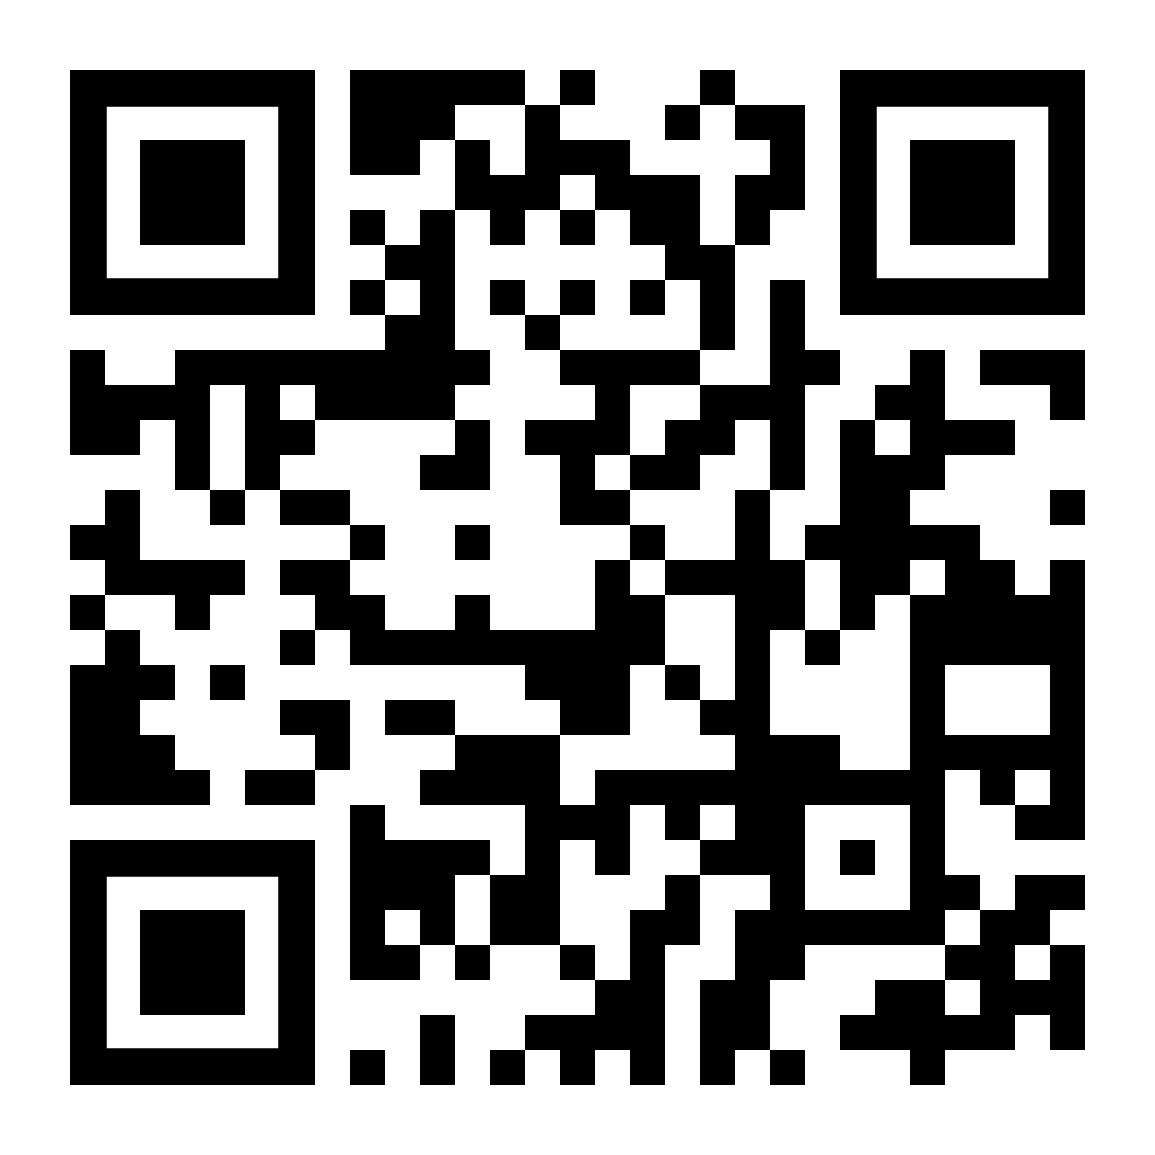
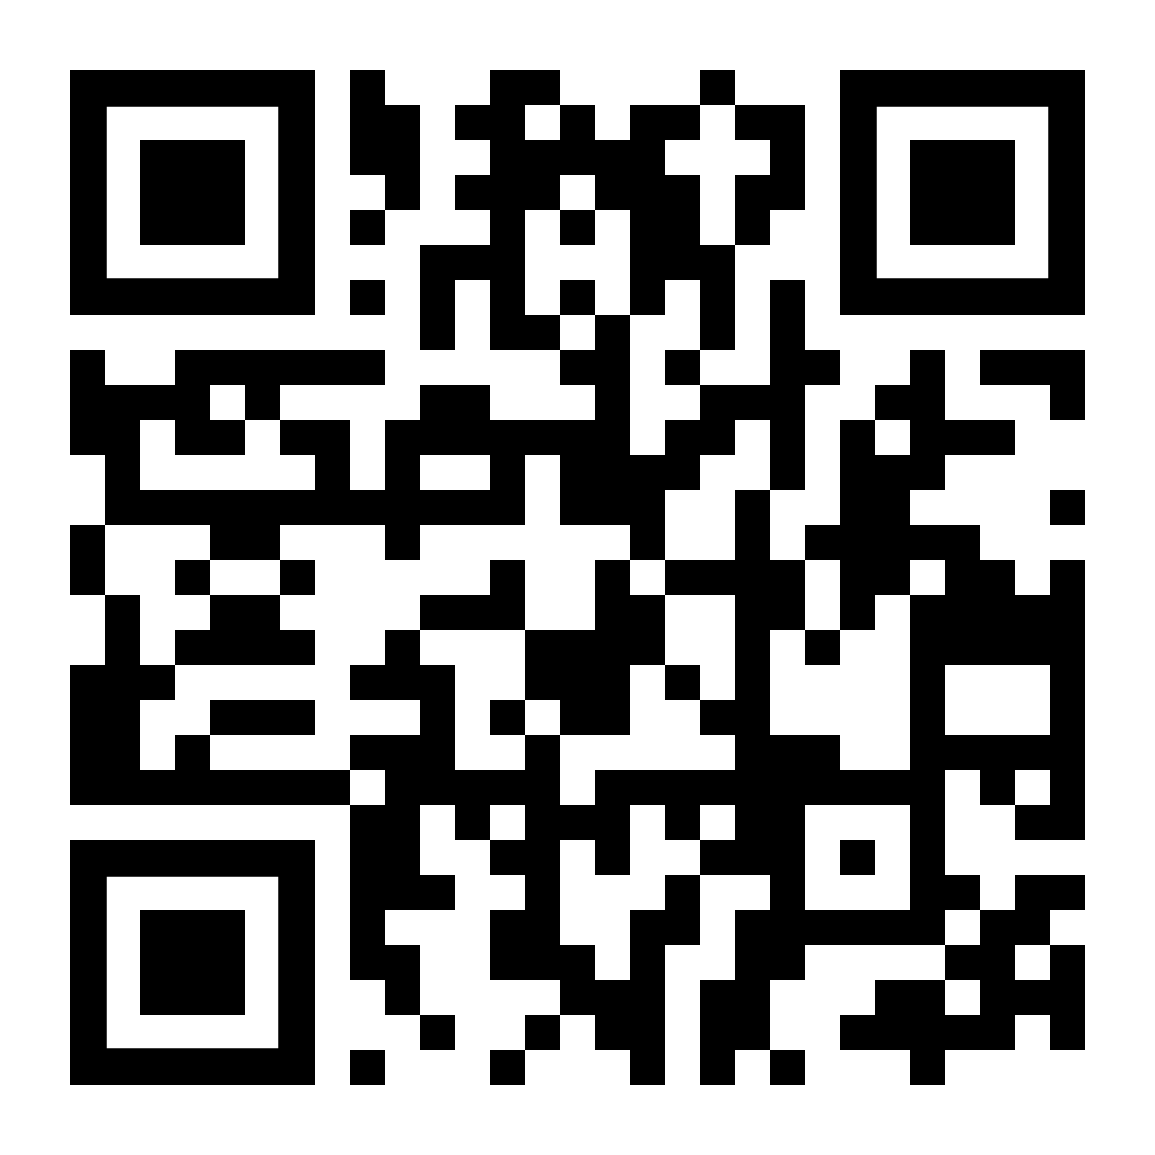
fix: update Ocean Serenity villa wifi password from LasPalmas to LasBrisas

diff --git a/properties.js b/properties.js
@@ -341,7 +341,7 @@ export const villas = {
       "qr_code": "/assets/images/properties/oceanserenity/Ocean_Serenity-qrcode.png",
       "qr_code_resort": "/assets/images/wifi_qr_resort.png",
       "villa_network": "SeaSalt-101",
-      "villa_password": "LasPalmas",
+      "villa_password": "LasBrisas",
       "resort_network": "Bahia Beach Resort",
       "resort_password": "welcomeHome<br>Note: The H in Home is capitalized",
     },
